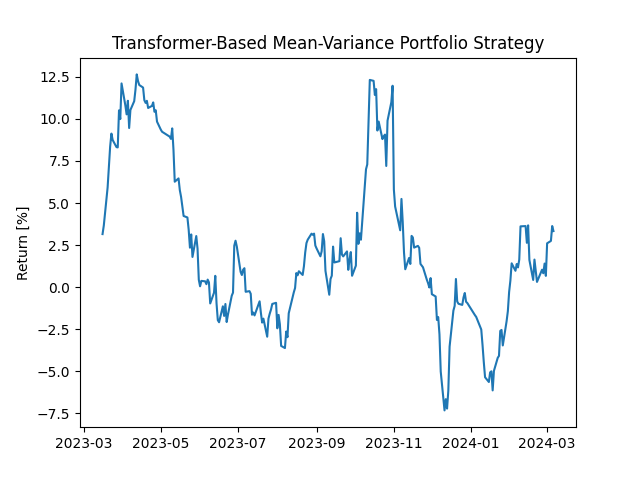
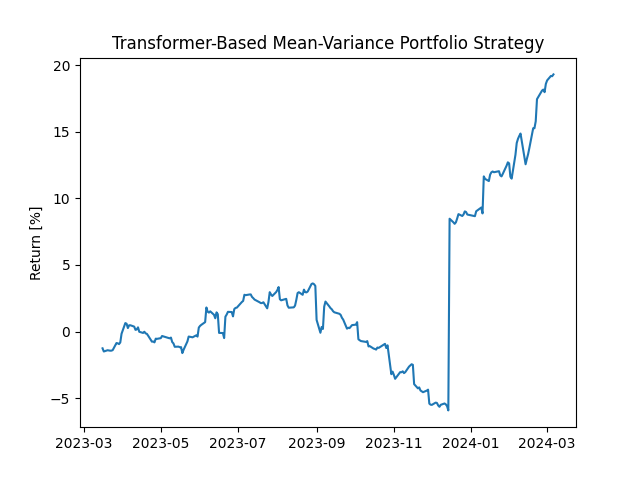
Scale down the target return
But there is still a remaining issue: a jump just before 2024. Why is that? Due to the time limit, let us postpone this issue

diff --git a/backtest.py b/backtest.py
@@ -7,7 +7,7 @@ from datetime import datetime
 
 def calc_opt_portfolio(model: keras.Model,
                        inputs: np.ndarray,
-                       target_return: float = 0.1):
+                       target_return: float = 0.01):
     outputs = model.predict(inputs)
     n = outputs.shape[-1]//2
     mu = outputs[:,:n]
